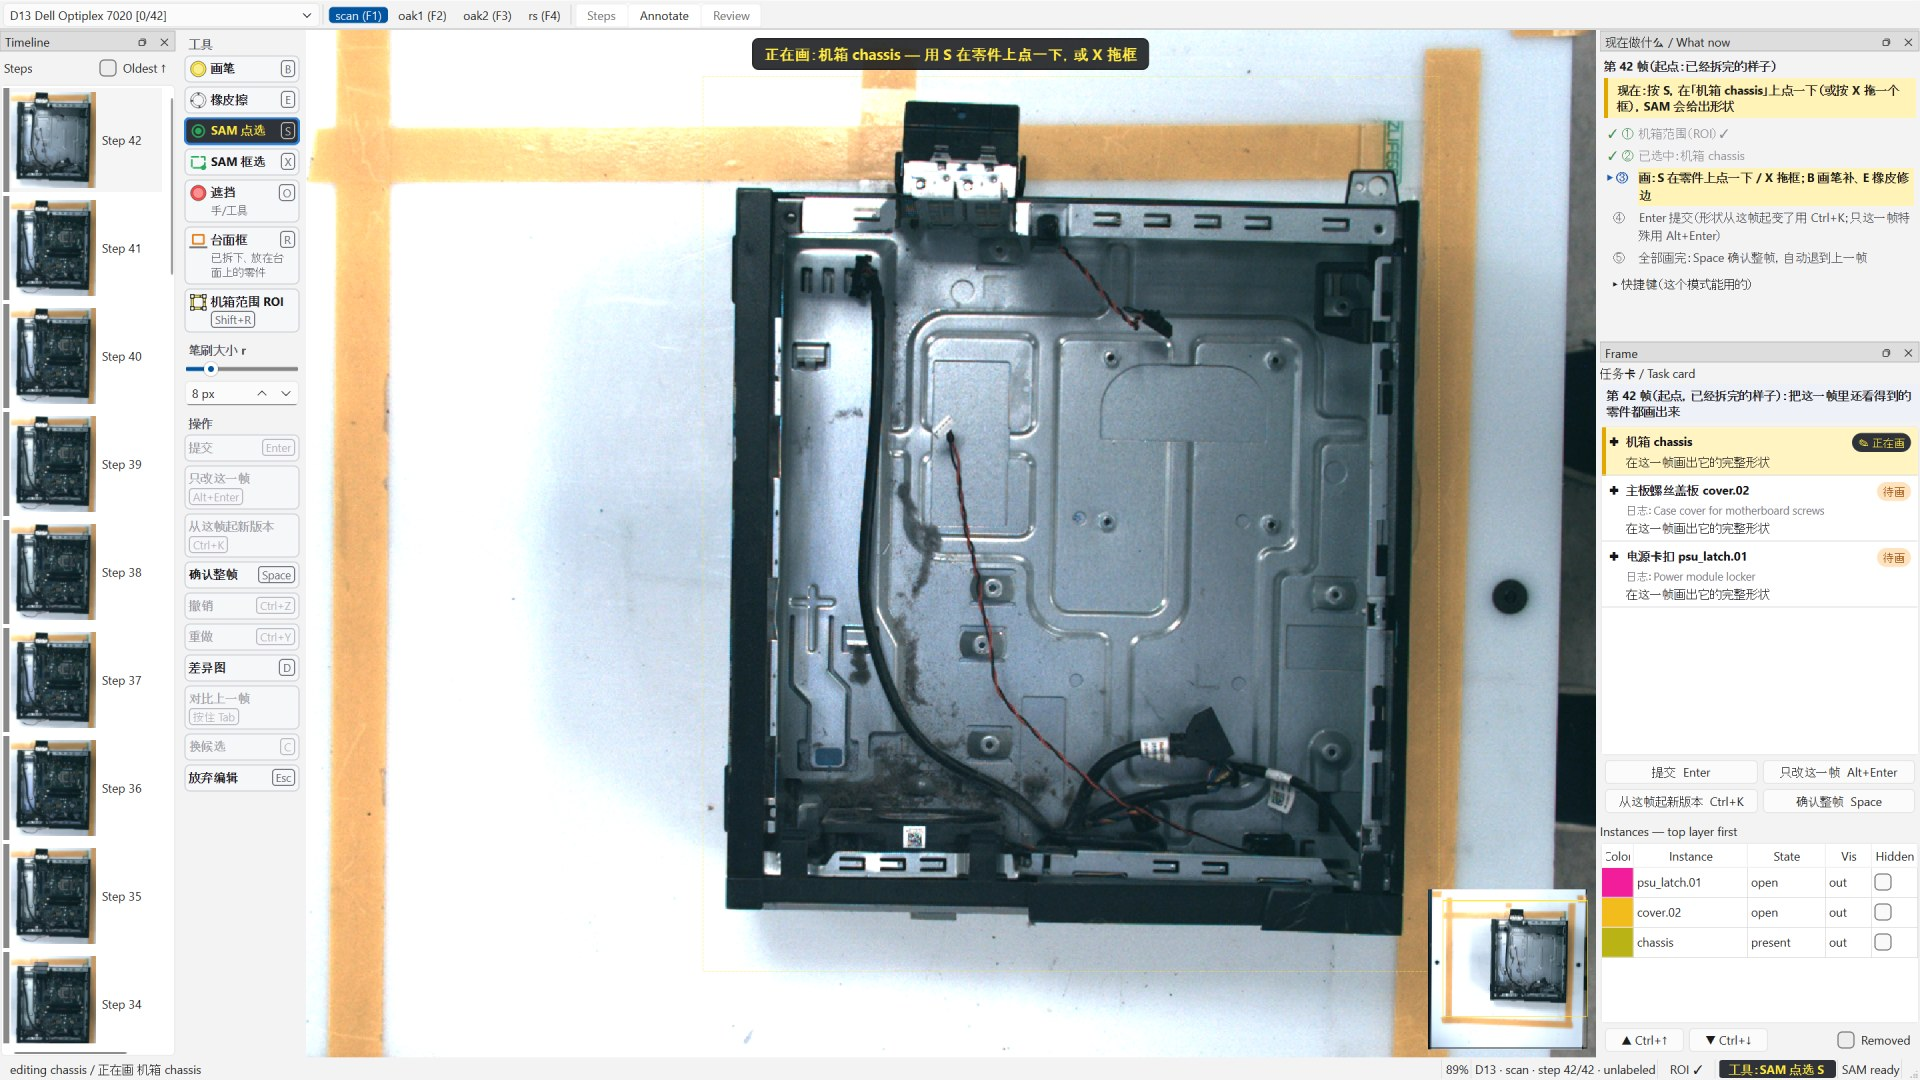
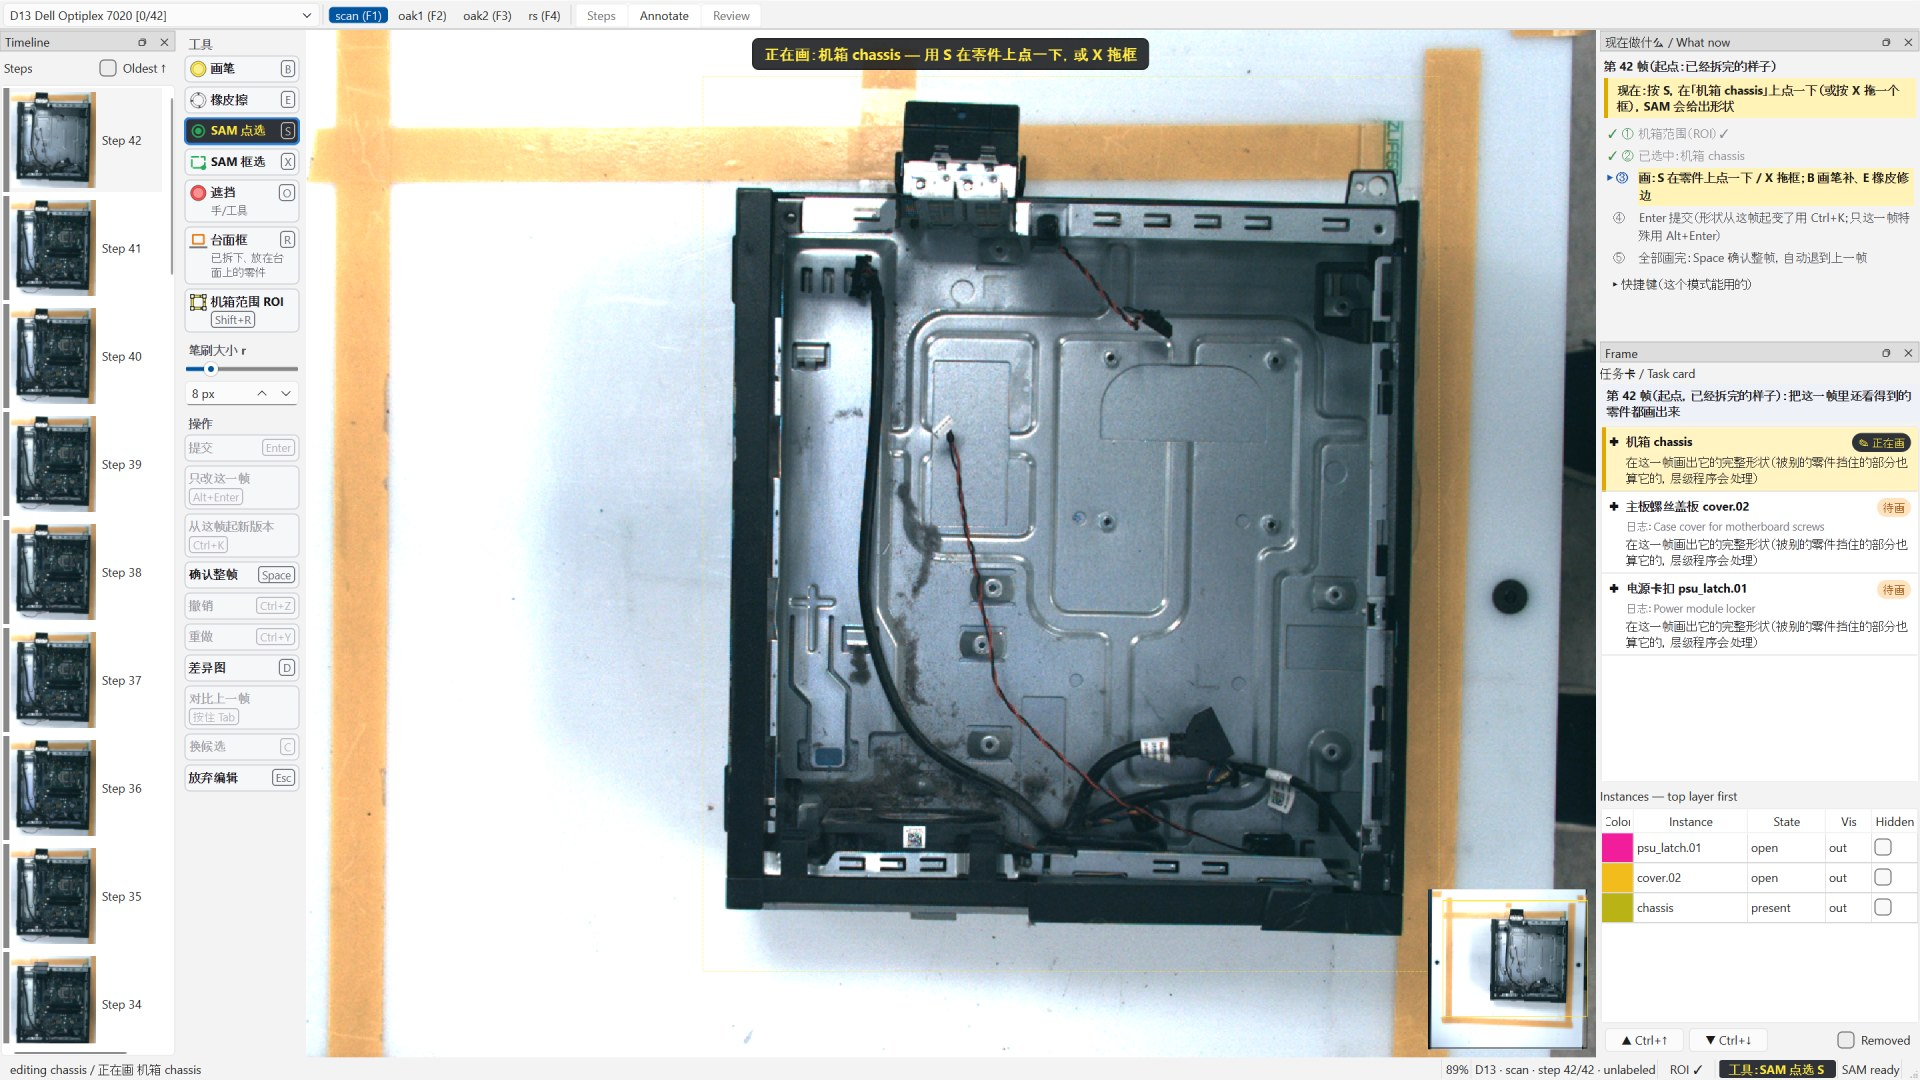
docs: U2b round 1 -- the palette is the one place for actions
Guide §2/§3 and the quickstart: no buttons under the task card any more,
the brush size can be typed (Enter / Esc), Review keeps only the queue's
keys and the difference map, hover drafts are the nearest five of the pose
segment, and the start frame's rows say what a complete shape is.  Five
refreshed 1920x1080 screenshots, one of them new (Review).

Changed region(s): [[0.8125, 0.4278, 1.0, 0.6111], [0.8125, 0.7028, 1.0, 0.8861]]

diff --git a/docs/trial_quickstart.md b/docs/trial_quickstart.md
@@ -23,7 +23,7 @@ D:\Anaconda\envs\tda\python.exe -m tda.cli app --annotator chang --desktop 13 --
 | 位置 | 是什么 | 怎么用 |
 |---|---|---|
 | 最左 | 时间轴 | 点一帧跳过去 |
-| 左二 | **工具面板** | 上面是工具，中间是笔刷大小，下面是操作。**点按钮 = 按那个键**，按钮上写着键。深色底黄字的是当前工具；**蓝框的是下一步最该按的**；灰的现在不能用，鼠标停上去说为什么 |
+| 左二 | **工具面板** | 上面是工具，中间是笔刷大小，下面是操作。**所有操作按钮都在这里**；点按钮 = 按那个键，按钮上写着键。深色底黄字的是当前工具；**蓝框的是下一步最该按的**；灰的现在不能用，鼠标停上去说为什么 |
 | 中间 | 画布 | 正在画某个零件时，顶上有一条黄字横幅写着在画什么、下一步按什么 |
 | 右上 | **现在做什么** | 黄底一行 = 下一步按什么；下面 ①–⑤ 是这一帧的五步，▶ 是现在这步；「快捷键」点开是这个模式能用的全部键 |
 | 右中 | **任务卡** | 这一帧要画的零件清单（见第 3 节） |
@@ -65,7 +65,7 @@ D:\Anaconda\envs\tda\python.exe -m tda.cli app --annotator chang --desktop 13 --
      `Shift+R`（左边「机箱范围 ROI」按钮）。
 4. 看右边任务卡。顶上一句："第 42 帧（起点，已经拆完的样子）：把这一帧里还看得到的零件都画出来"。
    每一条写着中文名、实例键、日志里的名字、要做什么，右边是状态（`待画`）。例如：
-   - `机箱 chassis` — 在这一帧画出它的完整形状
+   - `机箱 chassis` — 在这一帧画出它的完整形状（被别的零件挡住的部分也算它的，层级程序会处理）
    - `主板螺丝盖板 cover.02` — 日志：Case cover for motherboard screws
    - `电源卡扣 psu_latch.01` — 日志：Power module locker
 
@@ -79,8 +79,9 @@ D:\Anaconda\envs\tda\python.exe -m tda.cli app --annotator chang --desktop 13 --
 6. 在机箱上**点一下**（左键加一个点，右键减一个点），或按 `X` 在机箱外沿**拖一个框**。
    → 出现黄色半透明的形状；横幅变成"… — Enter 提交 / Esc 放弃"；左边「提交」有了蓝框。
    不满意：按 `C`（或「换候选」）换 SAM 的另一个答案，共 3 个。
-7. 边缘不对：`B` 画笔补、`E` 橡皮擦。笔刷大小用左边滑块或数字框，键盘 `[` `]`；数字是图像
-   像素，和右下角黄标签的 `r=` 是同一个数。`Shift+F` 填内部空洞，`Shift+D` 删碎块。滚轮缩放，
+7. 边缘不对：`B` 画笔补、`E` 橡皮擦。笔刷大小用左边滑块，或点一下数字框直接输入（例如 `24`，
+   按 `Enter` 确定、`Esc` 取消，之后键盘自动回到画布），键盘 `[` `]` 也行；数字是图像像素，和
+   右下角黄标签的 `r=` 是同一个数。`Shift+F` 填内部空洞，`Shift+D` 删碎块。滚轮缩放，
    **鼠标中键拖动平移**。机箱要画**完整轮廓**（以后被主板、电源盖住的部分也算它的）。
    （图：[docs/img/u2b_editing_pixels.jpg](img/u2b_editing_pixels.jpg)）
 8. 按 `Enter`（或「提交」）。→ 这一条从清单上消失（起点帧只列还没画的；之后的帧里做完的条目
@@ -97,7 +98,7 @@ D:\Anaconda\envs\tda\python.exe -m tda.cli app --annotator chang --desktop 13 --
    （图：[docs/img/u2b_mid.jpg](img/u2b_mid.jpg)，鼠标停在任务卡那一条上时的虚线框）
 2. 找不到零件在哪：
    - 鼠标停在任务卡那一条上 —— 橙色虚线框是差异图给 SAM 的提示框（变化最大的地方），蓝色是
-     同类零件的旧草稿，绿色是它在别的帧画过的形状；
+     这一段里同类零件的旧草稿（离橙色框最近的至多 5 个），绿色是它在别的帧画过的形状；
    - 按 `D`（「差异图」）看热力图，亮的那块就是它；
    - **按住** `Tab`（或按住「对比上一帧」）闪回上一帧对比，松开回来。
 3. 单击那一条 → `S` 在零件上点一下 → `Enter` → `Space`。
@@ -127,10 +128,12 @@ D:\Anaconda\envs\tda\python.exe -m tda.cli app --annotator chang --desktop 13 --
 
 ## 4. 走完之后：Review
 
-1. 点顶部 `Review`。→ 左边工具全灰（复查模式画布只读，只有「差异图」能用）；右上角写复查的键。
-2. 右下四个队列：`Conflicts`（`K` 保留旧的 / `N` 采用新的）、`Needs review`、`Missing shape`、
-   `Unexplained`（确认时还有没人认领的变化区域，多半是漏标了零件）。
-3. 选中一条按 `R` 回到那一帧返工，或 `Enter` 接受。
+1. 点顶部 `Review`。→ 左边的画图工具和笔刷大小收起来了（复查模式画布只读），只剩「接受这一帧
+   Enter」「返工 R」「保留旧的 K」「采用新的 N」和「差异图 D」；右上角写复查的键。
+2. 右下四个队列：`Conflicts`（`K` 保留旧的 / `N` 采用新的，选中一条冲突后这两个按钮才亮）、
+   `Needs review`、`Missing shape`、`Unexplained`（确认时还有没人认领的变化区域，多半是漏标了零件）。
+3. 选中一条按 `R`（或「返工」）回到那一帧返工，或 `Enter`（「接受这一帧」）接受。
+   （图：[docs/img/u2b_review.jpg](img/u2b_review.jpg)）
 
 ## 5. 收工与导出（可选）
 
@@ -145,12 +148,14 @@ D:\Anaconda\envs\tda\python.exe -m tda.cli check --desktop 13 --view scan
 ## 6. 这次改掉的几件事（和第二次试用时不一样）
 
 - **工具面板**：所有工具和提交 / 确认 / 撤销都有按钮，按钮上写着键；点按钮和按键完全一样。
+  操作按钮只在这一个地方（任务卡下面原来的四个按钮去掉了）。
 - **现在做什么**：右上角永远写着下一步按什么，▶ 指着这一帧五步里的当前一步。
 - **任务卡看得懂了**：每条有中文名、日志里的名字、一句要做什么和状态；**单击就开始画**；
   鼠标停在一条上会标出它大概在哪。
 - **开始画看得见了**：画布顶上横幅写着"正在画：…"，任务卡那条标 `✎ 正在画`，空的零件自动
   切到 SAM。上次"双击了没反应"其实已经开始编辑了，只是屏幕上几乎没有变化。
-- **笔刷大小可以拖**：左边滑块 / 数字框 / `[` `]` / 光标圆圈 / 黄标签 `r=` 是同一个数。
+- **笔刷大小可以拖、可以输入**：左边滑块 / 数字框（点一下输入，`Enter` 确定）/ `[` `]` / 光标
+  圆圈 / 黄标签 `r=` 是同一个数。
 - **`R` 和 `Shift+R` 名字分开了**：`R` 台面框（已拆下、放在台面上的零件），`Shift+R` 机箱范围 ROI。
 - 之前的规矩照旧：SAM 只做加法（再点再框都**并**进去，减像素只有 `E` 和右键负点）；擦掉的像素
   不会被 SAM 加回来；ROI 不会无声消失。

diff --git a/docs/annotation_guide.md b/docs/annotation_guide.md
@@ -31,8 +31,9 @@ D:\Anaconda\envs\tda\python.exe -m tda.cli app --annotator chang --desktop 13 --
 从左到右：时间轴、**工具面板**、画布、右侧 **「现在做什么」** + 任务卡 + 实例表。
 
 - **工具面板**：每个工具和提交 / 确认 / 撤销键各一个按钮，**点按钮 = 按那个键**（标签从同一张
-  键表生成）。深色底黄字 = 当前工具（和状态栏黄标签同一状态）；蓝框 = 下一步最该按的；灰掉的，
-  鼠标停上去说为什么。笔刷大小在中间：滑块、数字框、`[` `]` 是同一个数（图像像素）。
+  键表生成），这是唯一放操作按钮的地方。深色底黄字 = 当前工具（和状态栏黄标签同一状态）；蓝框 =
+  下一步最该按的；灰掉的，鼠标停上去说为什么。笔刷大小：滑块、数字框（点一下可输入，Enter 确定、
+  Esc 取消）、`[` `]` 是同一个数（图像像素）。复查模式只留差异图和队列的四个键。
 - **「现在做什么」**：黄底一行写下一步按什么；下面 ①–⑤ 是这一帧的五步，▶ 是当前这步；折叠的
   「快捷键」只列这个模式能用的键。
 
@@ -57,7 +58,7 @@ D:\Anaconda\envs\tda\python.exe -m tda.cli app --annotator chang --desktop 13 --
 状态栏会说）。图标（标题提示里有）：✚ 画回去；✂ 形状变了，`Ctrl+K` 提交；≡ 只是状态变，不用画；
 ▭ 在台面上，单击这条把台面框武装给它（没武装时 `R` 只认这一帧确实在台面上的选中实例）；⌫ 台面框
 到此为止；✔ 这帧没东西可画，直接 `Space`。鼠标停在一条上，画面用虚线框标出它大概在哪（它上一帧
-的形状 / 差异最大处 / 旧草稿），只显示，不改任何状态。
+的形状 / 差异最大处 / 这一位姿段里离差异最近的至多 5 个同类旧草稿），只显示，不改任何状态。
 
 1. **单击条目**开始编辑（双击也行）：画布顶上出现"正在画：…"横幅。层是空的，工具自动切到上次
    用的 SAM 工具（没用过是 SAM 点选；SAM 没加载就不动）；按住画笔直接在画布上画，则认领卡片
@@ -81,7 +82,7 @@ D:\Anaconda\envs\tda\python.exe -m tda.cli app --annotator chang --desktop 13 --
 - 编辑层有没提交的像素时，**每一件离开这一帧的事都会被挡住**（翻页、时间轴、复查队列、切视图 /
   机器 / 模式、点另一实例、`Space` 及其按钮、`F5`、复查 `R`、S1 `Apply`、恢复 sidecar、
   `Shift+R`、`Ctrl+Shift+B`），提示"Enter 提交 / Esc 放弃"；被挡住时 sidecar 立刻落盘。
-- 面板和任务卡上的按钮与键**完全等价**（「提交」也先问建议范围）。
+- 面板上的按钮与键**完全等价**（「提交」也先问建议范围）。
 - 每一笔画完 0.3 秒后编辑层写进 sidecar（§8），提交或 `Esc` 后删；写不进时状态栏挂"崩溃保护已
   失效"。
 
